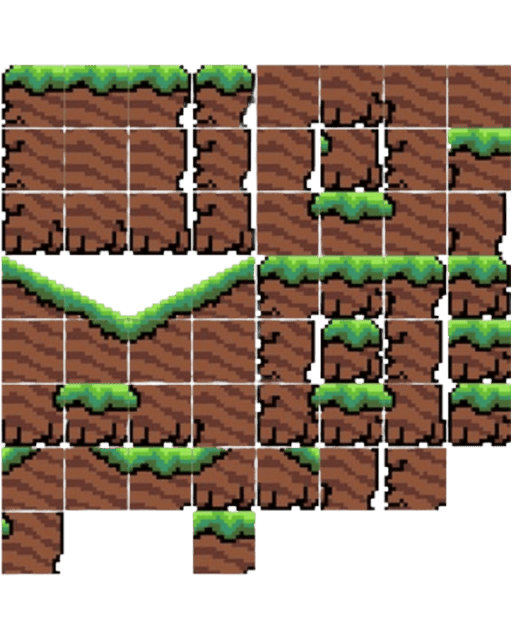
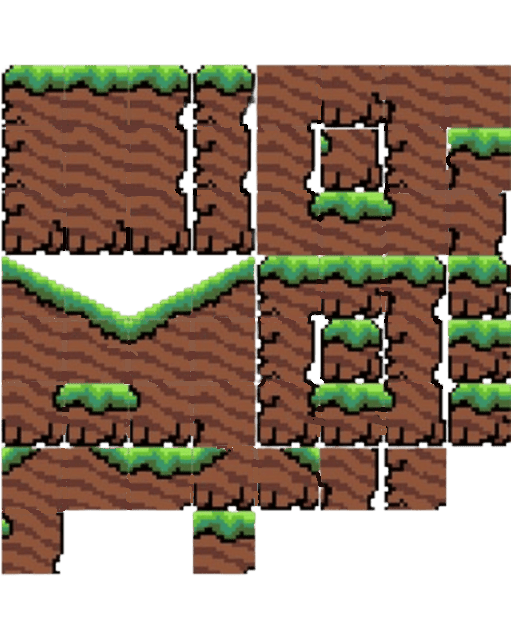
update skyland map

diff --git a/data/tilesets/objects.tsx b/data/tilesets/objects.tsx
@@ -1,5 +1,5 @@
 <?xml version="1.0" encoding="UTF-8"?>
-<tileset version="1.10" tiledversion="1.11.0" name="objects" tilewidth="309" tileheight="576" tilecount="30" columns="0">
+<tileset version="1.10" tiledversion="1.11.0" name="objects" tilewidth="309" tileheight="576" tilecount="31" columns="0">
  <grid orientation="orthogonal" width="1" height="1"/>
  <tile id="1">
   <image source="../../graphics/objects/vines/0.png" width="224" height="128"/>
@@ -90,5 +90,8 @@
  </tile>
  <tile id="34">
   <image source="../../graphics/objects/cloud/small_cloud/0.png" width="200" height="64"/>
+ </tile>
+ <tile id="37">
+  <image source="../../graphics/objects/decor/30.png" width="64" height="64"/>
  </tile>
 </tileset>

diff --git a/data/tilesets/terrain/terrain_skyland.tsx b/data/tilesets/terrain/terrain_skyland.tsx
@@ -1,4 +1,4 @@
 <?xml version="1.0" encoding="UTF-8"?>
-<tileset version="1.10" tiledversion="1.11.0" name="terrain_skyland" tilewidth="64" tileheight="64" tilecount="90" columns="8">
+<tileset version="1.10" tiledversion="1.11.0" name="terrain_skyland" tilewidth="64" tileheight="64" tilecount="80" columns="8">
  <image source="../../../graphics/map/terrain/terrain_skyland.png" width="512" height="640"/>
 </tileset>

diff --git a/src/main.py b/src/main.py
@@ -26,7 +26,7 @@ class Main:
         self.selectedPlayer = "player_knight"
 
         self.tmx_maps = {
-            0: load_pygame(join(base_path, '..', 'data', 'levels', 'underground.tmx')),
+            0: load_pygame(join(base_path, '..', 'data', 'levels', 'skyland.tmx')),
             1: load_pygame(join(base_path, '..', 'data', 'levels', 'outsite.tmx')),
             2: load_pygame(join(base_path, '..', 'data', 'levels', 'underwater.tmx')),
             3: load_pygame(join(base_path, '..', 'data', 'levels', 'skyland.tmx'))
@@ -75,8 +75,10 @@ class Main:
             'player_knight': import_sub_folders(join(base_path, '..', 'graphics', 'player', 'knight')),
             'player_mage': import_sub_folders(join(base_path,'..', 'graphics', 'player','mage')),
             'player_rogue': import_sub_folders(join(base_path,'..', 'graphics', 'player','Rogue')),
-            'water_top': import_folder(join('..', 'graphics', 'objects', 'water', 'top')),
-            'water_body': import_image(join('..', 'graphics', 'objects', 'water', 'body')),
+            'tree_big': import_folder(join(base_path,'..', 'graphics', 'objects', 'tree_big')),
+            'tree_small': import_folder(join(base_path,'..', 'graphics', 'objects', 'tree_small')),
+            'water_top': import_folder(join(base_path,'..', 'graphics', 'objects', 'water', 'top')),
+            'water_body': import_image(join(base_path,'..', 'graphics', 'objects', 'water', 'body')),
             'big_cloud': import_folder(join(base_path, '..', 'graphics', 'objects', 'cloud', 'big_cloud')),
 
         }

diff --git a/src/level.py b/src/level.py
@@ -91,7 +91,7 @@ class Level:
 
         # Object
         for obj in tmx_map.get_layer_by_name('Objects'):
-            Sprite((obj.x, obj.y), obj.image, (self.all_sprites, self.collision_sprites))
+            Sprite((obj.x, obj.y), obj.image, (self.all_sprites, self.all_sprites))
 
         # Player
         for obj in tmx_map.get_layer_by_name('Players'):
